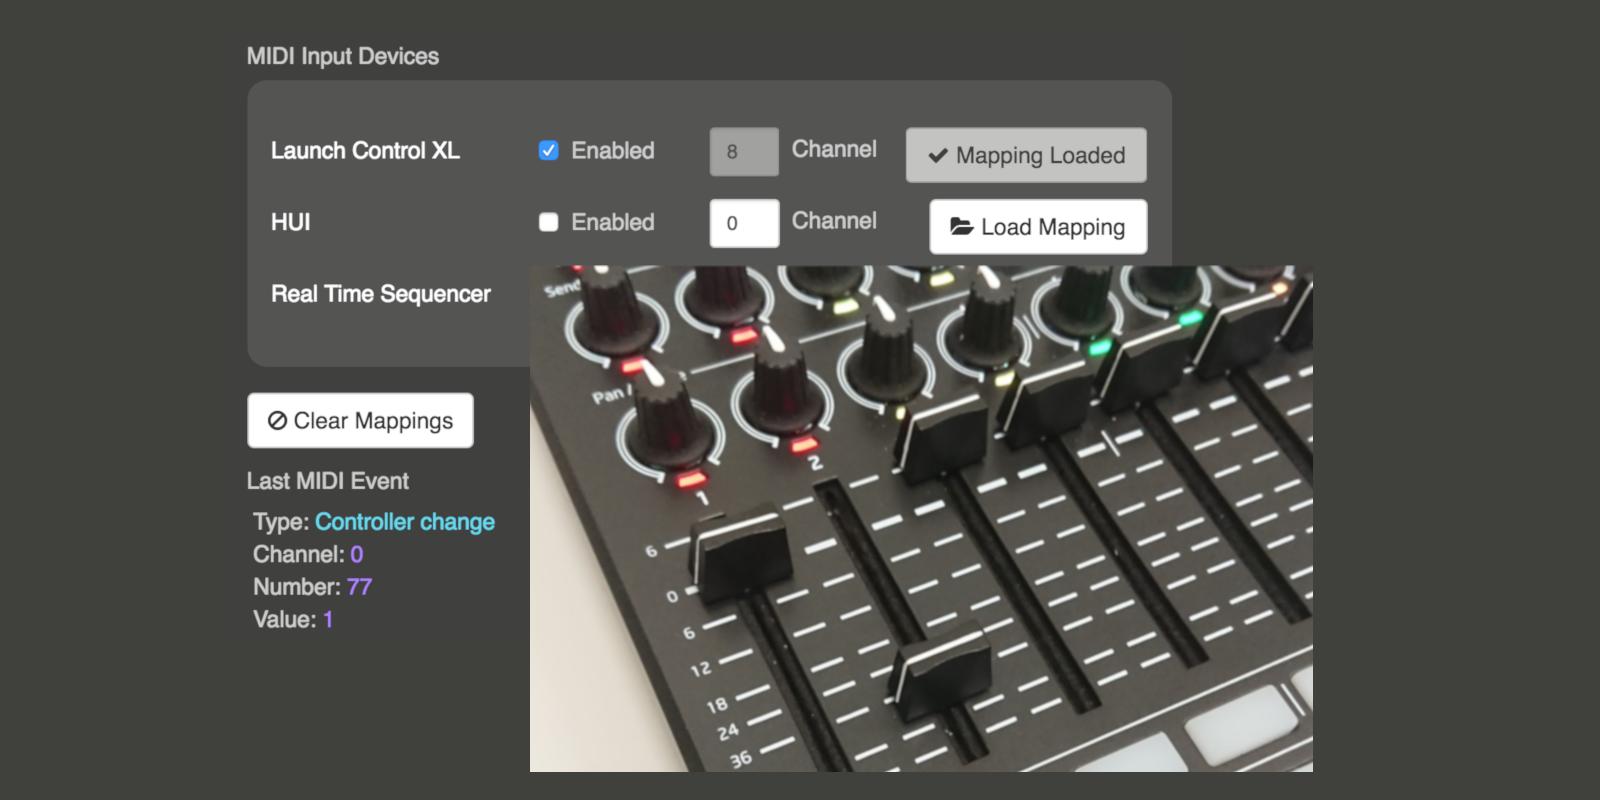
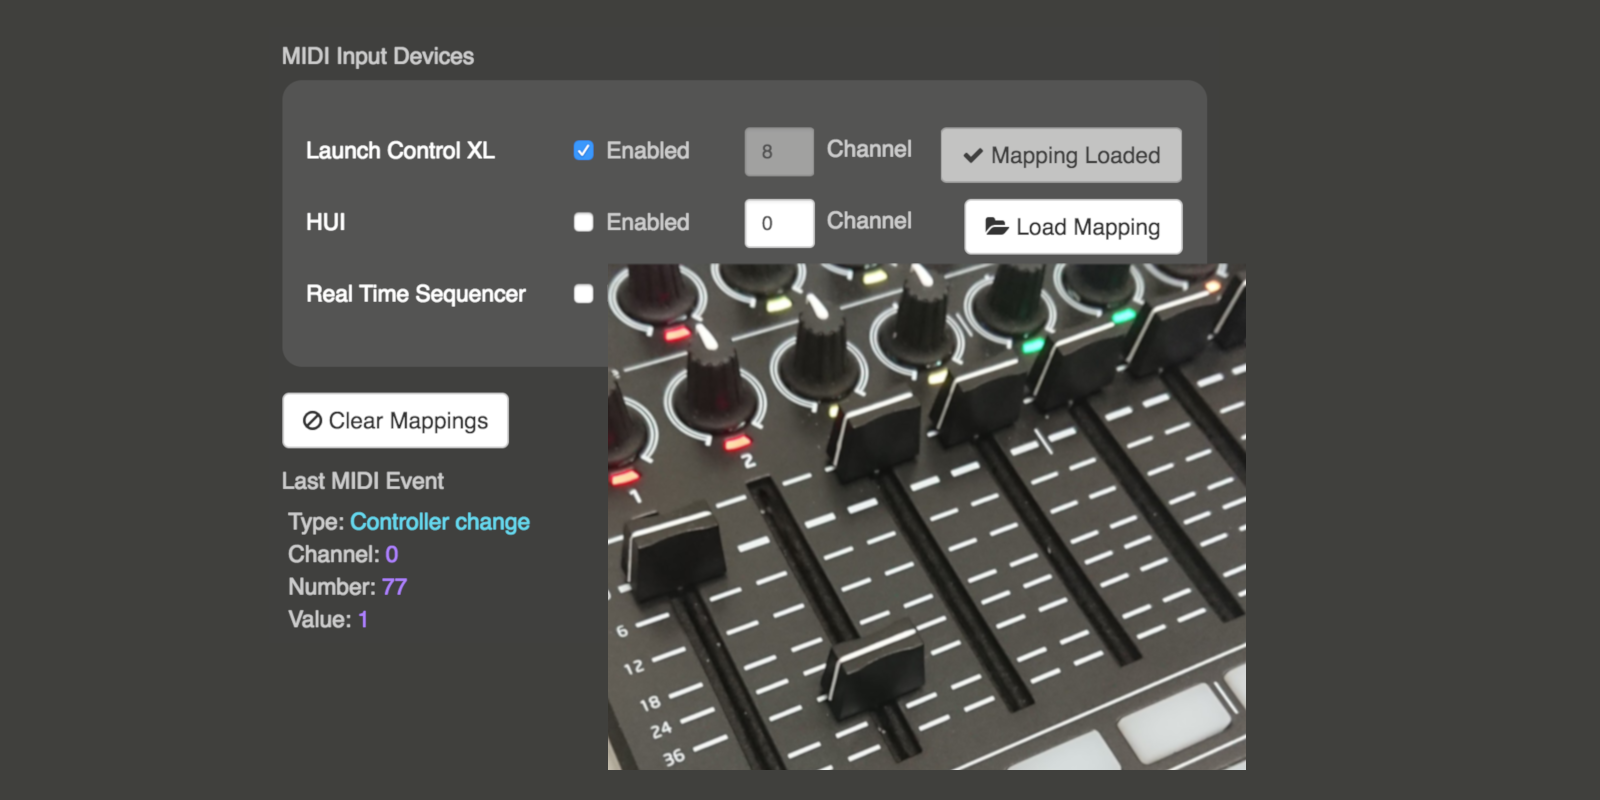
Update midi feature image. Improve but hide reference for now

diff --git a/index.html b/index.html
@@ -37,9 +37,9 @@
             <a class="nav-link" href="#Installation">Installation</a>
           </li>
 
-          <li class="nav-item">
+          <!--<li class="nav-item">
             <a class="nav-link" href="#Reference">Reference</a>
-          </li>
+          </li>-->
 
           <li class="nav-item">
             <a class="nav-link" href="#Contact">Contact</a>
@@ -152,7 +152,7 @@
         </p>
       </div>
 
-      <h3 id="Reference">Reference</h3>
+      <!--<h3 id="Reference">Reference</h3>
 
       <div class="panel">
         <p>
@@ -181,6 +181,13 @@
         <span class="method"><span class="name">set_master_opacity</span>(value : float)</span>
         <span class="method"><span class="name">visor_class</span>(class_name : symbol) { class_body }</span>
 
+        <span class="manager">State management</span>
+
+        <span class="method"><span class="name">set_range</span>(variable_name : symbol, min : number, max : number)</span>
+        <span class="method"><span class="name">interpolate</span>(variable_name : symbol, t : float)</span>
+        <span class="method"><span class="name">set_range_on_layer</span>(layer_name : symbol, variable_name : symbol, min : number, max : number)</span>
+        <span class="method"><span class="name">interpolate_on_layer</span>(layer_name : symbol, variable_name : symbol, t : float)</span>
+
         <span class="manager">Audio input</span>
 
         <span class="method"><span class="name">volume</span><span class="return"> #=> float</span></span>
@@ -204,13 +211,7 @@
         <span class="method"><span class="name">reset_beat_count</span></span>
         <span class="method"><span class="name">mute_tap_tempo</span><span class="return"> #=> bool</span></span>
         <span class="method"><span class="name">set_mute_tap_tempo</span>(value : bool)</span>
-
-        <span class="manager">State management</span>
-
-        <span class="method"><span class="name">set_range</span>(variable_name : symbol, min : number, max : number)</span>
-        <span class="method"><span class="name">interpolate</span>(variable_name : symbol, t : float)</span>
-        <span class="method"><span class="name">set_range_on_layer</span>(layer_name : symbol, variable_name : symbol, min : number, max : number)</span>
-        <span class="method"><span class="name">interpolate_on_layer</span>(layer_name : symbol, variable_name : symbol, t : float)</span>
+        <span class="method"><span class="name">clear_tap_tempo</span></span>
 
         <span class="manager">Layers</span>
 
@@ -230,10 +231,10 @@
 
         <span class="manager">MIDI</span>
 
-        <span class="method"><span class="name">state_to_midi</span>(variable_name : symbol, midi_name: symbol, attach: bool)</span>
-        <span class="method"><span class="name">state_to_midi_on_layer</span>(layer_name : symbol, variable_name : symbol, midi_name: symbol, attach: bool)</span>
+        <span class="method"><span class="name">state_to_midi</span>(variable_name : symbol, midi_name : symbol, attach : bool)</span>
+        <span class="method"><span class="name">state_to_midi_on_layer</span>(layer_name : symbol, variable_name : symbol, midi_name : symbol, attach : bool)</span>
         <span class="method"><span class="name">layer_state_to_midi</span>(variable_name : symbol, midi_name : symbol, attach : bool)</span>
-        <span class="method"><span class="name">visor_state_to_midi</span>(scope : symbol, variable_name: symbol, midi_name: symbol, attach: bool)</span>
+        <span class="method"><span class="name">visor_state_to_midi</span>(scope : symbol, variable_name : symbol, midi_name : symbol, attach : bool)</span>
         <span class="method"><span class="name">load_midi_mapping</span>(filename : string)</span>
         <span class="method"><span class="name">clear_midi_mappings</span></span>
 
@@ -243,7 +244,7 @@
         <span class="method"><span class="name">rotate_at</span>(angle : number, x : number, y : number)</span>
         <span class="method"><span class="name">with_style</span> { block }</span>
         <span class="method"><span class="name">with_matrix</span> { block }</span>
-        <span class="method"><span class="name">with_translate</span>(x : number, y, z : number) { block }</span>
+        <span class="method"><span class="name">with_translate</span>(x : number, y : number, z : number) { block }</span>
         <span class="method"><span class="name">with_scale</span>(x : number, y : number, z : number) { block }</span>
         <span class="method"><span class="name">with_rotate_x</span>(x : number) { block }</span>
         <span class="method"><span class="name">with_rotate_y</span>(y : number) { block }</span>
@@ -254,7 +255,7 @@
         <span class="manager">VisorClass (class to extend your own classes from)</span>
 
         <span class="method"><span class="name">layer=(layer : Layer)</span></span>
-      </div>
+      </div>-->
 
       <h3 id="Contact">Contact</h3>
 
